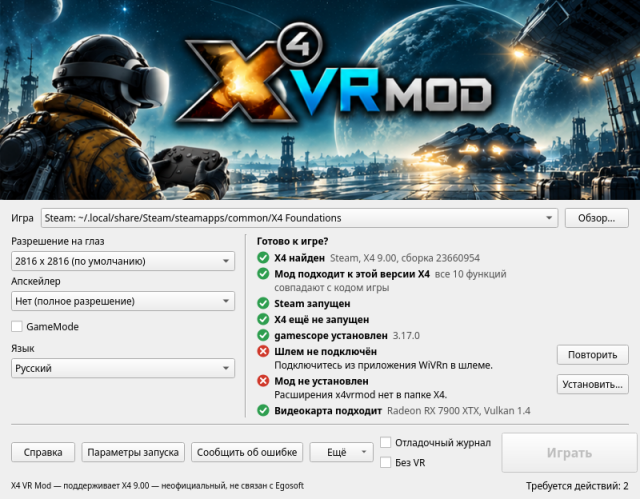
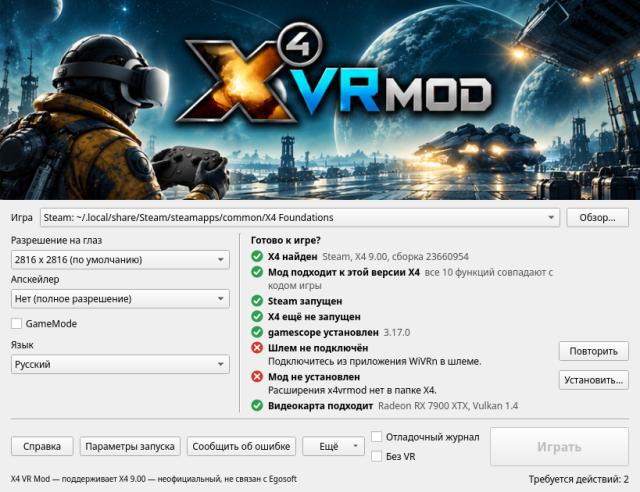
Launcher: the window grows past 800 pixels when its words need it, so no translation is cut at a desktop's font size
CI failed 0880a1d's width test in every language, English included: its image has no fonts, so the widths it measured meant nothing. But the test itself had been measuring at Qt's offscreen default, 9 pt, below any desktop's, and at the sizes desktops use it does fail: at KDE's 10 pt (Noto Sans) Russian cut its bottom row's buttons, and at GNOME's and Ubuntu's 11 pt, whatever the font, Portuguese, French and Russian did. English and German fit everywhere.

So 800 pixels is now the window's width unless its words need more: fitSize() takes the layout's minimum, the banner is drawn at that width, and it never narrows again so it doesn't jump. The Play button is as wide as the widest thing it can say from the start ("Всё равно играть"), so the width doesn't change mid-session. Russian at 11 pt: 943 pixels in Noto Sans, 1006 in DejaVu Sans, the widest common font.

The test now checks each language at the default, 10 and 11 pt: nothing cut, the banner across, and the width at most 1100, which a 1366-pixel laptop screen shows whole, so a translation that needs more must say it shorter (an overlong button fails it, at 1236 to 1463 pixels). With no fonts at all it says so and skips. CI's test job gets ttf-dejavu, so it measures the worst case. The help pictures in French, Russian, Portuguese and German are redrawn: Play's width moved their bottom row. The .pot's order followed the code.

diff --git a/launcher/gui/window.cpp b/launcher/gui/window.cpp
@@ -38,6 +38,9 @@ namespace x4vr::launcher::gui {
 
 namespace {
 
+// The window's width as designed. It grows only when its own words need more: a
+// translation, or a desktop font larger than the one it was drawn with (Russian in an
+// 11 pt font needs about 900).
 constexpr int kWidth = 800;
 // The rows' order: what a player fixes first comes first.
 const char *const kRowIds[] = {"x4", "patches", "steam", "running", "gamescope",
@@ -73,6 +76,15 @@ QPixmap statusIcon(Status s, qreal ratio) {
         p.drawLine(QPointF(11, 5), QPointF(5, 11));
     }
     return pm;
+}
+
+// Play's colours: green, amber, or the theme's own with none.
+QString playStyle(const QString &colour) {
+    return colour.isEmpty() ? QString()
+                            : QString("QPushButton{background:%1;color:white;border:none;"
+                                      "border-radius:6px;padding:6px 18px}"
+                                      "QPushButton:hover{background:%2}")
+                                  .arg(colour, QColor(colour).lighter(112).name());
 }
 
 // Rich text, so Qt wraps a long one.
@@ -138,7 +150,7 @@ Window::Window(const std::string &home, const Options &options)
     reloadGames();
     syncSettings();
     updatePlay();
-    fitHeight();
+    fitSize();
     if (m_opt.live) {
         m_timer = new QTimer(this);
         m_timer->setInterval(4000);
@@ -279,18 +291,13 @@ void Window::buildUi() {
     root->setContentsMargins(0, 0, 0, 0);
     root->setSpacing(0);
 
-    auto *banner = new QLabel(this);
-    QPixmap art(q(m_layout.help_dir) + "/banner.png");
-    if (!art.isNull()) {
-        // The window's width, and whatever height the picture has at that width.
-        const qreal r = devicePixelRatioF();
-        QPixmap s = art.scaledToWidth(int(kWidth * r), Qt::SmoothTransformation);
-        s.setDevicePixelRatio(r);
-        banner->setPixmap(s);
-    } else {
-        banner->setText("<h1 style='margin:12px'>X4 VR Mod</h1>");
-    }
-    root->addWidget(banner);
+    m_banner = new QLabel(this);
+    m_banner->setObjectName("banner");
+    m_art = QPixmap(q(m_layout.help_dir) + "/banner.png");
+    if (m_art.isNull())
+        m_banner->setText("<h1 style='margin:12px'>X4 VR Mod</h1>");
+    drawBanner(kWidth);
+    root->addWidget(m_banner);
 
     auto *content = new QWidget(this);
     auto *v = new QVBoxLayout(content);
@@ -389,11 +396,22 @@ void Window::buildUi() {
 
     m_play = new QPushButton(qtr("Play"), content);
     m_play->setObjectName("play");
-    m_play->setMinimumSize(170, 50);
     QFont big = m_play->font();
     big.setBold(true);
     big.setPointSizeF(big.pointSizeF() * 1.35);
     m_play->setFont(big);
+    // As wide as the widest thing it can say, so the window keeps one width as it changes.
+    int playWidth = 170;
+    for (const auto &[text, colour] :
+         {std::pair{qtr("Play"), QString("#2e9e4f")}, {qtr("Play"), QString()},
+          {qtr("Play anyway"), QString("#c67d00")}, {qtr("X4 is running"), QString()}}) {
+        m_play->setText(text);
+        m_play->setStyleSheet(playStyle(colour));
+        playWidth = std::max(playWidth, m_play->sizeHint().width());
+    }
+    m_play->setText(qtr("Play"));
+    m_play->setStyleSheet(QString());
+    m_play->setMinimumSize(playWidth, 50);
     connect(m_play, &QPushButton::clicked, this, [this] { play(); });
     bottom->addWidget(m_play);
     v->addLayout(bottom);
@@ -583,7 +601,7 @@ void Window::eyeChosen() {
     store_eye_settings(m_profile, m_eye);
     saveProfile();
     syncSettings();
-    fitHeight();
+    fitSize();
 }
 
 void Window::upscalerChosen() {
@@ -594,7 +612,7 @@ void Window::upscalerChosen() {
     store_eye_settings(m_profile, m_eye);
     saveProfile();
     syncSettings();
-    fitHeight();
+    fitSize();
 }
 
 void Window::gamemodeToggled() {
@@ -626,7 +644,7 @@ void Window::flatToggled() {
     for (const char *id : kRowIds)
         updateRow(id);
     updatePlay();
-    fitHeight();
+    fitSize();
 }
 
 // ---------------------------------------------------------------------- checks
@@ -678,7 +696,7 @@ void Window::requestChecks(bool forceVr) {
                 applyChecks(rows, !ask, skipGpu);
                 if (steamvrChanged || asksChanged) {
                     syncSettings();
-                    fitHeight();
+                    fitSize();
                 }
                 if (m_again) {
                     const bool f = m_againForce;
@@ -718,7 +736,7 @@ void Window::applyChecks(const std::vector<Check> &rows, bool keepVr, bool keepG
     for (const char *id : kRowIds)
         updateRow(id);
     updatePlay();
-    fitHeight();
+    fitSize();
 }
 
 void Window::updateRow(const std::string &id) {
@@ -854,18 +872,31 @@ void Window::updatePlay() {
     m_status->setText(status);
     m_play->setText(text);
     m_play->setEnabled(enabled);
-    m_play->setStyleSheet(colour.isEmpty()
-                              ? QString()
-                              : QString("QPushButton{background:%1;color:white;border:none;"
-                                        "border-radius:6px;padding:6px 18px}"
-                                        "QPushButton:hover{background:%2}")
-                                    .arg(colour, QColor(colour).lighter(112).name()));
+    m_play->setStyleSheet(playStyle(colour));
 }
 
-void Window::fitHeight() {
+// The banner across the window, at whatever height the picture has at that width.
+void Window::drawBanner(int width) {
+    if (m_art.isNull())
+        return;
+    const qreal r = devicePixelRatioF();
+    QPixmap s = m_art.scaledToWidth(int(width * r), Qt::SmoothTransformation);
+    s.setDevicePixelRatio(r);
+    m_banner->setPixmap(s);
+}
+
+// kWidth, or wider when the window's words need it, and never narrower again, so it
+// doesn't jump as the rows change; then the height its rows take at that width.
+void Window::fitSize() {
     QLayout *l = layout();
     l->activate();
-    setFixedHeight(l->hasHeightForWidth() ? l->totalHeightForWidth(kWidth)
+    const int w = std::max({kWidth, width(), l->minimumSize().width()});
+    if (w != width()) {
+        drawBanner(w);
+        setFixedWidth(w);
+        l->activate();
+    }
+    setFixedHeight(l->hasHeightForWidth() ? l->totalHeightForWidth(w)
                                           : l->totalSizeHint().height());
 }
 
@@ -1046,7 +1077,7 @@ void Window::resetDefaults() {
     m_note.clear();
     saveProfile();
     syncSettings();
-    fitHeight();
+    fitSize();
 }
 
 void Window::about() {

diff --git a/tests/launcher_gui.cpp b/tests/launcher_gui.cpp
@@ -17,6 +17,7 @@
 #include <QComboBox>
 #include <QDir>
 #include <QFile>
+#include <QFontDatabase>
 #include <QLabel>
 #include <QLineEdit>
 #include <QPlainTextEdit>
@@ -599,10 +600,18 @@ static void test_help(const std::string &helpDir) {
     }
 }
 
-// Every language in the window's 800 pixels: no button or checkbox narrower than its
-// words, nothing past the right edge. Translations run longer than English more often
-// than not, and the window doesn't grow.
+// Every language at the sizes desktops use (Qt's offscreen default is 9 pt; KDE's is
+// 10, GNOME's and Ubuntu's 11): no button or checkbox narrower than its words, nothing
+// past the right edge, the banner across the window. The window grows past its 800
+// pixels for words that need it (Russian at 11 pt: 943 in Noto Sans, 1006 in DejaVu
+// Sans, the widest of the common fonts), up to 1100, which a 1366-pixel laptop screen
+// still shows whole: a translation that needs more must say it shorter.
 static void test_languages_fit(const std::string &home, const Layout &layout) {
+    if (QFontDatabase::families().isEmpty()) {
+        printf("skip  the languages' widths: this system has no fonts to measure words with\n");
+        return;
+    }
+    const QFont was = QApplication::font();
     QTranslator qt;
     for (const Language &l : kLanguages) {
         const std::string code = l.code;
@@ -612,32 +621,45 @@ static void test_languages_fit(const std::string &home, const Layout &layout) {
         }
         // Without its catalogue every language would fit, being English.
         check(code == "en" || gui::qtr("Play") != "Play", code + ": the window is in it");
-        Window::Options o;
-        o.live = false;
-        Window w(home, o);
-        w.show();
-        // Every fix button at once, which is the widest the rows get.
-        auto rows = good_rows();
-        replace(rows, row("patches", Status::Warn, "X4 build not supported yet", "", "details"));
-        replace(rows, row("vr", Status::Block, "Headset not connected",
-                          "Connect from the WiVRn app in the headset.", "retry"));
-        replace(rows, row("mod", Status::Block, "Mod not installed",
-                          "The x4vrmod extension isn't in X4's folder.", "install"));
-        w.showChecks(rows);
-        QStringList cut;
-        for (QWidget *c : w.findChildren<QWidget *>()) {
-            auto *b = qobject_cast<QAbstractButton *>(c);
-            auto *box = qobject_cast<QComboBox *>(c);
-            if ((!b && !box) || !c->isVisibleTo(&w))
-                continue;
-            const int right = c->mapTo(&w, QPoint(c->width(), 0)).x();
-            // A list box shortens what it shows; a button can't.
-            if (right > w.width() || (b && c->width() < c->sizeHint().width()))
-                cut << (b ? b->text() : box->currentText());
+        for (const qreal points : {was.pointSizeF(), 10.0, 11.0}) {
+            QFont f = was;
+            f.setPointSizeF(points);
+            QApplication::setFont(f);
+            Window::Options o;
+            o.live = false;
+            Window w(home, o);
+            w.show();
+            // Every fix button at once, which is the widest the rows get.
+            auto rows = good_rows();
+            replace(rows, row("patches", Status::Warn, "X4 build not supported yet", "", "details"));
+            replace(rows, row("vr", Status::Block, "Headset not connected",
+                              "Connect from the WiVRn app in the headset.", "retry"));
+            replace(rows, row("mod", Status::Block, "Mod not installed",
+                              "The x4vrmod extension isn't in X4's folder.", "install"));
+            w.showChecks(rows);
+            QApplication::processEvents();
+            QStringList cut;
+            for (QWidget *c : w.findChildren<QWidget *>()) {
+                auto *b = qobject_cast<QAbstractButton *>(c);
+                auto *box = qobject_cast<QComboBox *>(c);
+                if ((!b && !box) || !c->isVisibleTo(&w))
+                    continue;
+                const int right = c->mapTo(&w, QPoint(c->width(), 0)).x();
+                // A list box shortens what it shows; a button can't.
+                if (right > w.width() || (b && c->width() < c->sizeHint().width()))
+                    cut << (b ? b->text() : box->currentText());
+            }
+            auto *banner = w.findChild<QLabel *>("banner");
+            const bool across = banner && (banner->pixmap().isNull() ||
+                                           qRound(banner->pixmap().deviceIndependentSize().width()) ==
+                                               w.width());
+            check(cut.isEmpty() && w.width() >= 800 && w.width() <= 1100 && across,
+                  code + " at " + QString::number(points).toStdString() + " pt (" +
+                      QFontInfo(f).family().toStdString() + "): fits in " + std::to_string(w.width()) +
+                      " pixels, the banner across" +
+                      (cut.isEmpty() ? std::string() : "; cut: " + cut.join(", ").toStdString()));
         }
-        check(cut.isEmpty() && w.width() == 800,
-              code + ": every button fits the window" +
-                  (cut.isEmpty() ? std::string() : ": " + cut.join(", ").toStdString()));
+        QApplication::setFont(was);
     }
     gui::apply_language("en", layout.locale_dir, qt);
 }

diff --git a/launcher/gui/window.hpp b/launcher/gui/window.hpp
@@ -5,6 +5,7 @@
 // and the window can't disagree (docs/packaging-plan.md, Phase 3).
 #pragma once
 
+#include <QPixmap>
 #include <QPointer>
 #include <QString>
 #include <QStringList>
@@ -87,7 +88,8 @@ private:
     void updateVrStart(bool wanted);
     void startProgram(const QString &program, const QStringList &args);
     void updatePlay();
-    void fitHeight();
+    void fitSize();
+    void drawBanner(int width);
     void tick();
     void sessionEnded();
 
@@ -121,6 +123,8 @@ private:
     QCheckBox *m_debug = nullptr, *m_flat = nullptr;
     QCheckBox *m_gamemode = nullptr;
     QComboBox *m_langBox = nullptr;
+    QLabel *m_banner = nullptr;
+    QPixmap m_art;
     QPushButton *m_play = nullptr;
     QToolButton *m_vrStart = nullptr;
     QString m_vrChoices;
